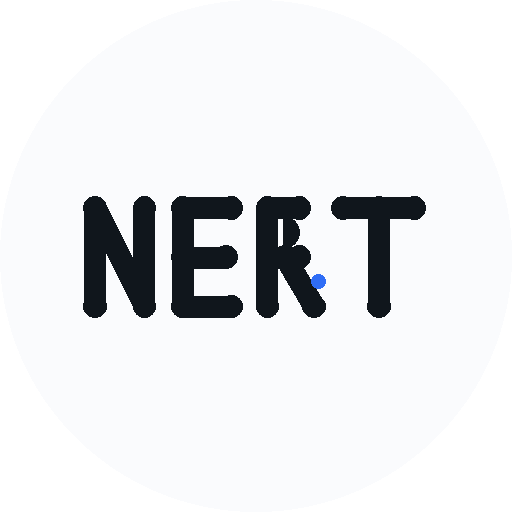
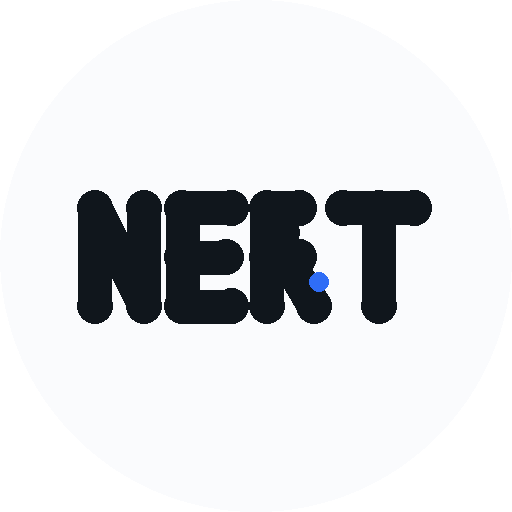
403：底部四栏 模型/历史/修改/设置（Dock 置顶不被遮挡），CPU 面板移入设置，图标加粗，站点文案同步

Changed region(s): [[0.2188, 0.375, 0.8438, 0.6562], [0.125, 0.375, 0.25, 0.6562]]

diff --git a/app/src/main/java/io/github/xororz/localdream/ui/screens/EditRoadShell.kt b/app/src/main/java/io/github/xororz/localdream/ui/screens/EditRoadShell.kt
@@ -19,9 +19,10 @@ import androidx.compose.foundation.layout.width
 import androidx.compose.foundation.shape.RoundedCornerShape
 import androidx.compose.material.icons.Icons
 import androidx.compose.material.icons.filled.AutoFixHigh
+import androidx.compose.material.icons.filled.CloudDownload
 import androidx.compose.material.icons.filled.History
-import androidx.compose.material.icons.filled.Memory
 import androidx.compose.material.icons.filled.Settings
+import androidx.compose.material3.Button
 import androidx.compose.material3.Icon
 import androidx.compose.material3.MaterialTheme
 import androidx.compose.material3.Surface
@@ -49,15 +50,16 @@ import io.github.xororz.localdream.data.EditRoadPrefs
 import io.github.xororz.localdream.data.Model
 import io.github.xororz.localdream.data.ModelRepository
 
+private const val TAB_HOME = "home"
 private const val TAB_HISTORY = "history"
-private const val TAB_CPU = "cpu"
 private const val TAB_EDIT = "edit"
 private const val TAB_SETTINGS = "settings"
 
 /**
- * 四个页面（历史 / CPU压力 / 修改 / 设置）始终同时存在于组合树里，只切换可见层。
- * 这样修图生成过程中切到任意页，BackgroundGenerationService 与修图页的进度状态
- * 都不会被销毁；切回“修改”时仍在原来的进度上继续。
+ * 四个常驻页面：模型（下载 / 导入）、历史、修改、设置。
+ * 所有页面同时保留在组合树里，只切换可见层：修图生成过程中切到任意页都不会中断；
+ * 切回“修改”时仍停在原来的进度上。CPU 压力 / 线程面板从设置页进入，作为覆盖层，
+ * 不占用底部 Dock 的四个位置。
  */
 @Composable
 fun EditRoadShell() {
@@ -73,9 +75,10 @@ fun EditRoadShell() {
             .sortedBy { it.name }
     }
 
-    var tab by rememberSaveable { mutableStateOf(TAB_EDIT) }
+    var tab by rememberSaveable { mutableStateOf(TAB_HOME) }
     var selectedId by rememberSaveable { mutableStateOf(EditRoadPrefs.lastModelId(context)) }
     var restored by rememberSaveable { mutableStateOf(false) }
+    var showCpu by rememberSaveable { mutableStateOf(false) }
 
     LaunchedEffect(repository.isLoaded, editableModels.size) {
         if (!repository.isLoaded) return@LaunchedEffect
@@ -91,21 +94,27 @@ fun EditRoadShell() {
 
     val selectedModel = editableModels.firstOrNull { it.id == selectedId }
 
-    BackHandler(enabled = tab != TAB_EDIT) {
-        tab = TAB_EDIT
-    }
+    BackHandler(enabled = showCpu) { showCpu = false }
+    BackHandler(enabled = tab != TAB_HOME) { tab = TAB_HOME }
 
     Surface(
         modifier = Modifier.fillMaxSize(),
         color = MaterialTheme.colorScheme.background,
     ) {
         Box(Modifier.fillMaxSize()) {
-            KeepAliveLayer(visible = tab == TAB_HISTORY) {
-                EditRoadHistoryScreen(bottomPadding = 104.dp)
+            KeepAliveLayer(visible = tab == TAB_HOME) {
+                EditRoadHomeScreen(
+                    onOpenModel = { model ->
+                        selectedId = model.id
+                        EditRoadPrefs.setLastModelId(context, model.id)
+                        tab = TAB_EDIT
+                    },
+                    bottomPadding = 104.dp,
+                )
             }
 
-            KeepAliveLayer(visible = tab == TAB_CPU) {
-                CpuPressureScreen(active = tab == TAB_CPU, bottomPadding = 104.dp)
+            KeepAliveLayer(visible = tab == TAB_HISTORY) {
+                EditRoadHistoryScreen(bottomPadding = 104.dp)
             }
 
             KeepAliveLayer(visible = tab == TAB_EDIT) {
@@ -117,34 +126,70 @@ fun EditRoadShell() {
                             selectedId = chosen.id
                             EditRoadPrefs.setLastModelId(context, chosen.id)
                         },
-                        onBack = { selectedId = null },
+                        onBack = {
+                            selectedId = null
+                            tab = TAB_HOME
+                        },
                         active = tab == TAB_EDIT,
                         bottomPadding = 104.dp,
                     )
                 } else {
-                    EditRoadHomeScreen(
-                        onOpenModel = { model ->
-                            selectedId = model.id
-                            EditRoadPrefs.setLastModelId(context, model.id)
-                            tab = TAB_EDIT
-                        },
-                        bottomPadding = 104.dp,
-                    )
+                    EmptyEditState(onPick = { tab = TAB_HOME })
                 }
             }
 
             KeepAliveLayer(visible = tab == TAB_SETTINGS) {
-                EditRoadSettingsScreen(bottomPadding = 104.dp)
+                EditRoadSettingsScreen(
+                    onOpenCpu = { showCpu = true },
+                    bottomPadding = 104.dp,
+                )
+            }
+
+            KeepAliveLayer(visible = showCpu) {
+                CpuPressureScreen(active = true, bottomPadding = 104.dp)
             }
 
             GlassDock(
                 tab = tab,
-                onTab = { tab = it },
+                onTab = { tab = it; if (it != TAB_SETTINGS) showCpu = false },
                 modifier = Modifier
                     .align(Alignment.BottomCenter)
                     .navigationBarsPadding()
-                    .padding(start = 14.dp, end = 14.dp, bottom = 12.dp),
+                    .padding(start = 14.dp, end = 14.dp, bottom = 12.dp)
+                    .zIndex(2f),
             )
+        }
+    }
+}
+
+@Composable
+private fun EmptyEditState(onPick: () -> Unit) {
+    Box(
+        Modifier.fillMaxSize().padding(24.dp),
+        contentAlignment = Alignment.Center,
+    ) {
+        Surface(
+            shape = RoundedCornerShape(20.dp),
+            color = Color(0xF2FFFFFF),
+            border = BorderStroke(1.dp, Color(0x66FFFFFF)),
+            shadowElevation = 2.dp,
+            modifier = Modifier.fillMaxWidth(),
+        ) {
+            Column(Modifier.padding(24.dp), horizontalAlignment = Alignment.CenterHorizontally) {
+                Text("还没有选中模型", style = MaterialTheme.typography.titleMedium)
+                Spacer(Modifier.height(8.dp))
+                Text(
+                    "先到“模型”页下载或导入一个模型，点它就能进入修图。",
+                    style = MaterialTheme.typography.bodySmall,
+                    color = MaterialTheme.colorScheme.onSurfaceVariant,
+                )
+                Spacer(Modifier.height(16.dp))
+                Button(onClick = onPick, modifier = Modifier.fillMaxWidth()) {
+                    Icon(Icons.Default.CloudDownload, contentDescription = null, modifier = Modifier.size(18.dp))
+                    Spacer(Modifier.width(6.dp))
+                    Text("去模型页")
+                }
+            }
         }
     }
 }
@@ -181,11 +226,11 @@ private fun GlassDock(tab: String, onTab: (String) -> Unit, modifier: Modifier =
                 .padding(horizontal = 6.dp, vertical = 6.dp),
             verticalAlignment = Alignment.CenterVertically,
         ) {
+            DockTab(Icons.Default.CloudDownload, "模型", tab == TAB_HOME, Modifier.weight(1f)) {
+                onTab(TAB_HOME)
+            }
             DockTab(Icons.Default.History, "历史", tab == TAB_HISTORY, Modifier.weight(1f)) {
                 onTab(TAB_HISTORY)
-            }
-            DockTab(Icons.Default.Memory, "CPU压力", tab == TAB_CPU, Modifier.weight(1f)) {
-                onTab(TAB_CPU)
             }
             DockTab(Icons.Default.AutoFixHigh, "修改", tab == TAB_EDIT, Modifier.weight(1f)) {
                 onTab(TAB_EDIT)

diff --git a/docs/index.html b/docs/index.html
@@ -103,7 +103,7 @@
     <p class="lead">从「能跑的修图器」变成「日常能用的修图器」：引擎不再假死，出错不再静默。</p>
     <div class="grid">
       <div class="card"><span class="tag">引擎</span><h3>修图不再卡在 0%</h3>
-        <p>批量任务移出界面生命周期，独立控制器执行。切到历史 / CPU 压力 / 设置，甚至退回首页，生成都不会中断，回来仍是原进度。</p></div>
+        <p>批量任务移出界面生命周期，独立控制器执行。切到历史 / 设置，甚至退回模型页，生成都不会中断，回来仍是原进度。</p></div>
       <div class="card"><span class="tag">启动</span><h3>修 <code>rememberCoroutineScope left the composition</code></h3>
         <p>旧实现把循环挂在 Compose 作用域上，一离开页面就被取消并抛异常；现在由控制器持有作用域，异常路径全部收敛为可读日志。</p></div>
       <div class="card"><span class="tag">诊断</span><h3>失败必弹日志窗</h3>
@@ -115,13 +115,13 @@
       <div class="card"><span class="tag">步数</span><h3>默认 40，可自设到 100</h3>
         <p>出厂即配置好尺寸、CFG、重绘强度与防畸形反向词，用户只需要写提示语和调步数。</p></div>
       <div class="card"><span class="tag">界面</span><h3>白色半透明玻璃</h3>
-        <p>弃用动态取色，固定冷白板 + 毛玻璃卡片；底部常驻四栏：历史 / CPU 压力 / 修改 / 设置，右上角入口取消。</p></div>
+        <p>弃用动态取色，固定冷白板 + 毛玻璃卡片；底部常驻四栏：模型 / 历史 / 修改 / 设置，右上角入口取消。</p></div>
       <div class="card"><span class="tag">性能</span><h3>低 / 中 / 高配都能加速</h3>
-        <p>大核数自动识别，可在 CPU 压力页手动指定线程数并跑 6 秒压力测试；输出长边按内存分档（384/512/640/768）。</p></div>
+        <p>大核数自动识别，可在设置里的 CPU 压力面板手动指定线程数并跑 6 秒压力测试；输出长边按内存分档（384/512/640/768）。</p></div>
       <div class="card"><span class="tag">语言</span><h3>提示语中英都行</h3>
         <p>中文提示语自动翻译后再进模型；翻译失败会退回内置离线词典，不会因此中断修图。</p></div>
       <div class="card"><span class="tag">下载</span><h3>下载源可切换</h3>
-        <p>设置里在「自动 / 国内镜像 / 官方」之间切换，应用内三语言（简中 / 繁中 / English / 日本語 / 한국어 中的三档）与下载源都已回归。</p></div>
+        <p>设置里在「自动 / 国内镜像 / 官方」之间切换，应用内三语言（简中 / 繁中 / English）与下载源都已回归。</p></div>
       <div class="card"><span class="tag">更新</span><h3>检查更新走新仓库</h3>
         <p><code>api.github.com/repos/ETQWFD/NightmareEditRoad-ET/releases/latest</code>，并按本机 ABI 选包。</p></div>
       <div class="card"><span class="tag">精简</span><h3>只留修图与模型下载</h3>

diff --git a/site/index.html b/site/index.html
@@ -103,7 +103,7 @@
     <p class="lead">从「能跑的修图器」变成「日常能用的修图器」：引擎不再假死，出错不再静默。</p>
     <div class="grid">
       <div class="card"><span class="tag">引擎</span><h3>修图不再卡在 0%</h3>
-        <p>批量任务移出界面生命周期，独立控制器执行。切到历史 / CPU 压力 / 设置，甚至退回首页，生成都不会中断，回来仍是原进度。</p></div>
+        <p>批量任务移出界面生命周期，独立控制器执行。切到历史 / 设置，甚至退回模型页，生成都不会中断，回来仍是原进度。</p></div>
       <div class="card"><span class="tag">启动</span><h3>修 <code>rememberCoroutineScope left the composition</code></h3>
         <p>旧实现把循环挂在 Compose 作用域上，一离开页面就被取消并抛异常；现在由控制器持有作用域，异常路径全部收敛为可读日志。</p></div>
       <div class="card"><span class="tag">诊断</span><h3>失败必弹日志窗</h3>
@@ -115,13 +115,13 @@
       <div class="card"><span class="tag">步数</span><h3>默认 40，可自设到 100</h3>
         <p>出厂即配置好尺寸、CFG、重绘强度与防畸形反向词，用户只需要写提示语和调步数。</p></div>
       <div class="card"><span class="tag">界面</span><h3>白色半透明玻璃</h3>
-        <p>弃用动态取色，固定冷白板 + 毛玻璃卡片；底部常驻四栏：历史 / CPU 压力 / 修改 / 设置，右上角入口取消。</p></div>
+        <p>弃用动态取色，固定冷白板 + 毛玻璃卡片；底部常驻四栏：模型 / 历史 / 修改 / 设置，右上角入口取消。</p></div>
       <div class="card"><span class="tag">性能</span><h3>低 / 中 / 高配都能加速</h3>
-        <p>大核数自动识别，可在 CPU 压力页手动指定线程数并跑 6 秒压力测试；输出长边按内存分档（384/512/640/768）。</p></div>
+        <p>大核数自动识别，可在设置里的 CPU 压力面板手动指定线程数并跑 6 秒压力测试；输出长边按内存分档（384/512/640/768）。</p></div>
       <div class="card"><span class="tag">语言</span><h3>提示语中英都行</h3>
         <p>中文提示语自动翻译后再进模型；翻译失败会退回内置离线词典，不会因此中断修图。</p></div>
       <div class="card"><span class="tag">下载</span><h3>下载源可切换</h3>
-        <p>设置里在「自动 / 国内镜像 / 官方」之间切换，应用内三语言（简中 / 繁中 / English / 日本語 / 한국어 中的三档）与下载源都已回归。</p></div>
+        <p>设置里在「自动 / 国内镜像 / 官方」之间切换，应用内三语言（简中 / 繁中 / English）与下载源都已回归。</p></div>
       <div class="card"><span class="tag">更新</span><h3>检查更新走新仓库</h3>
         <p><code>api.github.com/repos/ETQWFD/NightmareEditRoad-ET/releases/latest</code>，并按本机 ABI 选包。</p></div>
       <div class="card"><span class="tag">精简</span><h3>只留修图与模型下载</h3>

diff --git a/docs/help.html b/docs/help.html
@@ -112,7 +112,7 @@
       <li><b>连上了但 150 秒没有第一个 step</b> → 判定为引擎无首步进度，弹窗带请求参数与端口状态。</li>
       <li><b>某个 step 后 20 分钟不动</b> → 判定卡死，主动结束并弹日志。</li>
     </ul>
-    <p>自查顺序：换一个更小的模型 → 设置里把渲染器从 GPU 改成 CPU → CPU 压力页把线程数调成“大核数”→ 关掉其它占用内存的应用。</p>
+    <p>自查顺序：换一个更小的模型 → 设置里把渲染器从 GPU 改成 CPU → 设置里的 CPU 压力面板把线程数调成“大核数”→ 关掉其它占用内存的应用。</p>
   </details>
 
   <details id="engine">
@@ -134,7 +134,7 @@
 
   <details id="switch">
     <summary>生成中途切页面会不会中断</summary>
-    <p>不会。底部四栏（历史 / CPU压力 / 修改 / 设置）都是常驻的，切换时不销毁任务；生成中切换模型会被拒绝并提示，避免修到一半换模型。CPU 压力页还会实时显示“修图中 x%（i/N 张）”。</p>
+    <p>不会。底部四栏（模型 / 历史 / 修改 / 设置）都是常驻的，切换时不销毁任务；生成中切换模型会被拒绝并提示，避免修到一半换模型。设置里的 CPU 压力面板还会实时显示“修图中 x%（i/N 张）”。</p>
   </details>
 
   <details id="steps">
@@ -156,7 +156,7 @@
     <ul>
       <li><b>低配（3–4 GB、32 位）</b>：渲染器选 CPU，步数 20–30，一次 1 张，线程数设 2–4。</li>
       <li><b>中配（6 GB）</b>：默认自动（优先 GPU，失败回退 CPU），步数 40。</li>
-      <li><b>高配（10 GB+）</b>：可以放心 60–100 步 + 批量，CPU 压力页用 6 秒压力测试确认大核都在跑。</li>
+      <li><b>高配（10 GB+）</b>：可以放心 60–100 步 + 批量，设置里的 CPU 压力面板用 6 秒压力测试确认大核都在跑。</li>
       <li>线程数设为“自动”时会用大核数；手动改小可降温，改大不一定更快（小核拖慢整体）。</li>
     </ul>
   </details>
@@ -164,7 +164,7 @@
   <details id="lang">
     <summary>提示语能不能写中文？界面语言怎么换</summary>
     <p>提示语中文、英文都可以，也可以中英混写。中文提示语会先翻译成模型能理解的英文再进模型；翻译服务不可用时会退回内置离线词典，不会因此失败。留空则只做画质增强，几乎不动原图内容。</p>
-    <p>界面语言在设置页切换：简体中文 / English / 日本語（三档）。切换后建议重启一次应用，个别文字来自静态文案。</p>
+    <p>界面语言在设置页切换：简体中文 / 繁體中文 / English（三档）。切换后建议重启一次应用，个别文字来自静态文案。</p>
   </details>
 
   <details id="update">

diff --git a/site/help.html b/site/help.html
@@ -112,7 +112,7 @@
       <li><b>连上了但 150 秒没有第一个 step</b> → 判定为引擎无首步进度，弹窗带请求参数与端口状态。</li>
       <li><b>某个 step 后 20 分钟不动</b> → 判定卡死，主动结束并弹日志。</li>
     </ul>
-    <p>自查顺序：换一个更小的模型 → 设置里把渲染器从 GPU 改成 CPU → CPU 压力页把线程数调成“大核数”→ 关掉其它占用内存的应用。</p>
+    <p>自查顺序：换一个更小的模型 → 设置里把渲染器从 GPU 改成 CPU → 设置里的 CPU 压力面板把线程数调成“大核数”→ 关掉其它占用内存的应用。</p>
   </details>
 
   <details id="engine">
@@ -134,7 +134,7 @@
 
   <details id="switch">
     <summary>生成中途切页面会不会中断</summary>
-    <p>不会。底部四栏（历史 / CPU压力 / 修改 / 设置）都是常驻的，切换时不销毁任务；生成中切换模型会被拒绝并提示，避免修到一半换模型。CPU 压力页还会实时显示“修图中 x%（i/N 张）”。</p>
+    <p>不会。底部四栏（模型 / 历史 / 修改 / 设置）都是常驻的，切换时不销毁任务；生成中切换模型会被拒绝并提示，避免修到一半换模型。设置里的 CPU 压力面板还会实时显示“修图中 x%（i/N 张）”。</p>
   </details>
 
   <details id="steps">
@@ -156,7 +156,7 @@
     <ul>
       <li><b>低配（3–4 GB、32 位）</b>：渲染器选 CPU，步数 20–30，一次 1 张，线程数设 2–4。</li>
       <li><b>中配（6 GB）</b>：默认自动（优先 GPU，失败回退 CPU），步数 40。</li>
-      <li><b>高配（10 GB+）</b>：可以放心 60–100 步 + 批量，CPU 压力页用 6 秒压力测试确认大核都在跑。</li>
+      <li><b>高配（10 GB+）</b>：可以放心 60–100 步 + 批量，设置里的 CPU 压力面板用 6 秒压力测试确认大核都在跑。</li>
       <li>线程数设为“自动”时会用大核数；手动改小可降温，改大不一定更快（小核拖慢整体）。</li>
     </ul>
   </details>
@@ -164,7 +164,7 @@
   <details id="lang">
     <summary>提示语能不能写中文？界面语言怎么换</summary>
     <p>提示语中文、英文都可以，也可以中英混写。中文提示语会先翻译成模型能理解的英文再进模型；翻译服务不可用时会退回内置离线词典，不会因此失败。留空则只做画质增强，几乎不动原图内容。</p>
-    <p>界面语言在设置页切换：简体中文 / English / 日本語（三档）。切换后建议重启一次应用，个别文字来自静态文案。</p>
+    <p>界面语言在设置页切换：简体中文 / 繁體中文 / English（三档）。切换后建议重启一次应用，个别文字来自静态文案。</p>
   </details>
 
   <details id="update">

diff --git a/app/src/main/java/io/github/xororz/localdream/ui/screens/EditRoadSettingsScreen.kt b/app/src/main/java/io/github/xororz/localdream/ui/screens/EditRoadSettingsScreen.kt
@@ -29,6 +29,7 @@ import androidx.compose.material.icons.filled.CheckCircle
 import androidx.compose.material.icons.filled.CloudDownload
 import androidx.compose.material.icons.filled.Groups
 import androidx.compose.material.icons.filled.Language
+import androidx.compose.material.icons.filled.Memory
 import androidx.compose.material.icons.filled.Settings
 import androidx.compose.material.icons.filled.Tune
 import androidx.compose.material3.AlertDialog
@@ -70,7 +71,10 @@ private const val NERT_GROUP_URL =
         "&noverify=0&group_code=1078799843"
 
 @Composable
-fun EditRoadSettingsScreen(bottomPadding: Dp = 104.dp) {
+fun EditRoadSettingsScreen(
+    bottomPadding: Dp = 104.dp,
+    onOpenCpu: (() -> Unit)? = null,
+) {
     val context = LocalContext.current
     val scope = rememberCoroutineScope()
     var steps by remember { mutableIntStateOf(EditRoadPrefs.steps(context)) }
@@ -177,6 +181,18 @@ fun EditRoadSettingsScreen(bottomPadding: Dp = 104.dp) {
                             )
                             Text(label, style = MaterialTheme.typography.bodyMedium)
                         }
+                    }
+                }
+            }
+
+            if (onOpenCpu != null) {
+                item {
+                    SettingsCard(Icons.Default.Memory, "CPU 压力 / 线程") {
+                        SettingsLinkRow(
+                            title = "实时占用 · 引擎线程 · 压力测试",
+                            subtitle = "打开性能面板：查看 CPU 占用与频率、调整引擎线程数",
+                            onClick = { onOpenCpu?.invoke() },
+                        )
                     }
                 }
             }

diff --git a/app/src/main/java/io/github/xororz/localdream/ui/screens/EditScreen.kt b/app/src/main/java/io/github/xororz/localdream/ui/screens/EditScreen.kt
@@ -396,7 +396,7 @@ fun EditScreen(
                 }
                 TextButton(onClick = { EditBatchController.stop(context) }) { Text("停止本次修图") }
                 Text(
-                    "可以切到“历史 / CPU压力 / 设置”，修图不会中断，回来仍是原来的进度。",
+                    "可以切到“历史 / 设置”，修图不会中断，回来仍是原来的进度。",
                     style = MaterialTheme.typography.labelSmall,
                     color = MaterialTheme.colorScheme.onSurfaceVariant,
                 )

diff --git a/scripts/render_site_icon.py b/scripts/render_site_icon.py
@@ -13,7 +13,7 @@ INK = (16, 22, 28, 255)
 ACCENT = (47, 109, 246, 255)
 WHITE = (255, 255, 255, 255)
 DISC = (250, 251, 253, 255)
-STROKE = 40
+STROKE = 62
 BOX = (170, 380, 830, 640)  # letters bounding box, including stroke caps
 
 # (x1, y1, x2, y2) straight strokes, in the 1024 viewport.
@@ -24,7 +24,7 @@ STROKES = [
     (656, 424, 784, 424), (720, 424, 720, 600),                                # T
 ]
 R_BOWL = (549, 468, 29, -90, 90)   # cx, cy, r, a0, a1
-SPARK = (612, 556, 13)              # cx, cy, r
+SPARK = (612, 556, 17)              # cx, cy, r
 
 
 def render(size: int, path: str, transparent: bool = False, margin_scale: float = 1.0) -> None:
